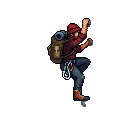
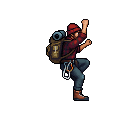
Wider camp ledge, front-facing A-frame tent, side-view campfire
The camp ledge is a new, much wider PixelLab Pro ledge; its image is cut
off where a slab of cliff starts at its back end, and the sign stands at
its far end. While the team is at a camp the camera eases over to centre
the whole ledge in the open part of the screen.

The tent is now a large A-frame seen from the front, door in the middle
(where the climbers turn in and come out), and the campfire is a
side-view teepee of logs with an animated flicker; the unlit pile is
the same logs with the flames taken out. The lumberjack's climb is
regenerated with bare hands, without the grey holds drawn in his fists.

diff --git a/js/scene.js b/js/scene.js
@@ -172,12 +172,17 @@ const ART={},FIRE_N=6;
   // (the ledge's walkable span: the columns whose top lies within a few pixels of the surface, where a tent can stand)
   load(asset("assets/ledge.png"),im=>{const p=pixels(im);ART.ledge=im;ART.ledgeTop=surface(p);
     const top=x=>{for(let y=0;y<p.h;y++)if(p.d[(y*p.w+x)*4+3]>40)return y;return p.h;};let a=0,b=p.w-1;
-    while(a<p.w&&top(a)>ART.ledgeTop+4)a++;while(b>a&&top(b)>ART.ledgeTop+4)b--;ART.ledgeWalk=[a,b];wintry(p.d);
+    // (the image's back end may carry a slab of cliff rising well above the ledge: it is cut off where that starts,
+    // so only the ledge itself is drawn, its back end against the real wall)
+    while(a<p.w&&top(a)>ART.ledgeTop+4)a++;let w=a;while(w<p.w&&top(w)>=ART.ledgeTop-6)w++;
+    b=w-1;while(b>a&&top(b)>ART.ledgeTop+4)b--;ART.ledgeWalk=[a,b];ART.ledgeW=w;wintry(p.d);
     const [c,g]=mk(p.w,p.h),id=g.createImageData(p.w,p.h);id.data.set(p.d);g.putImageData(id,0,0);ART.ledgeSnow=c;FX.camps={};});
   load(asset("assets/tent.png"),im=>{ART.tent=im;FX.camps={};FX.base=null;});
-  // the campfire's flicker loop; the unlit pile is the first frame's logs and stone ring (its lowest rows) alone
+  // the campfire's flicker loop; the unlit pile is its first frame with the flames (bright orange and yellow pixels)
+  // taken out, leaving the leaning logs and the stones
   ART.fire=Array.from({length:FIRE_N},(_,i)=>{const im=new Image();im.src=asset(`assets/fire/${i}.png`);
-    if(!i)im.onload=()=>{const b=boxOf(im),cut=b.y1-15,[c,g]=mk(im.width,im.height);g.drawImage(im,0,cut,im.width,im.height-cut,0,cut,im.width,im.height-cut);ART.firePile=c;};
+    if(!i)im.onload=()=>{const p=pixels(im),d=p.d;for(let j=0;j<d.length;j+=4)if(d[j]>200&&d[j+1]>90&&d[j]-d[j+2]>80)d[j+3]=0;
+      const [c,g]=mk(p.w,p.h),id=g.createImageData(p.w,p.h);id.data.set(d);g.putImageData(id,0,0);ART.firePile=c;};
     return im;});
   load(asset("assets/pine.png"),im=>{ART.pine=im;FX.base=null;});
   // the base-camp meadow: a grass-and-soil strip repeated along the valley floor, solid soil below it
@@ -548,29 +553,28 @@ function sign(text){const s=textSprite(text,C.cream,null),[c,g]=mk(s.width+6,s.h
 function drawTent(g,x,y){if(ART.tent)g.drawImage(ART.tent,x,y-boxOf(ART.tent).y1-1);else g.drawImage(sprites().tent,x,y-12);}
 // a camp shelf jutting from the cliff: the generated ledge (grassy for Camp I, snowy for Camp II) with its walkable
 // top at the camp's height and its right end over the rock, or until it loads a painted slab; a tent, sign and fire
-// left to right along the ledge: the tent at its outer end, the sign raised above it, the fire, then the climbers
-const CAMP_FIRE=-86;
+// the ledge as drawn: the image up to where its cliff slab starts, its back end at x=30 over the wall
+const ledgeW=()=>ART.ledge?ART.ledgeW||ART.ledge.width:0,ledgeL=()=>30-ledgeW();
 function campLayer(k,cy){if(FX.camps[k])return FX.camps[k];
   // (the buttress under the ledge, painted with the cliff, fills in between the ledge's back end and the wall)
-  const x0=-176,x1=30,y0=cy-96,y1=cy+80,[c,g]=mk(x1-x0,y1-y0),X=x=>x-x0,Y=y=>y-y0,snow=k==="c2";
-  // the ledge image's back end has a block of cliff rising above its top; only its rows from the top down are used
-  // there, so nothing stands up out of the ledge next to the wall
-  if(ART.ledge){const L=snow?ART.ledgeSnow:ART.ledge,dx=X(x1-L.width),dy=Y(cy-ART.ledgeTop),cut=150,top=ART.ledgeTop-2;
-    g.drawImage(L,0,0,cut,L.height,dx,dy,cut,L.height);g.drawImage(L,cut,top,L.width-cut,L.height-top,dx+cut,dy+top,L.width-cut,L.height-top);}
+  const x1=30,x0=Math.min(-176,ledgeL()-8),y0=cy-110,y1=cy+100,[c,g]=mk(x1-x0,y1-y0),X=x=>x-x0,Y=y=>y-y0,snow=k==="c2";
+  if(ART.ledge){const L=snow?ART.ledgeSnow:ART.ledge,W=ledgeW();g.drawImage(L,0,0,W,L.height,X(ledgeL()),Y(cy-ART.ledgeTop),W,L.height);}
   else for(let x=-170;x<x1;x++){const end=x<-160?(x+170)/10:1,th=R0((9+hash(x>>2,5)*4)*end);
     for(let y=0;y<=th;y++){let col=rockAt(x,cy+y+400);if(y===th)col=C.crack;else if(y>=th-1)col=C.rockD;
       if(y<=1)col=snow?(y?C.snowS:C.snow):(y?C.moss:C.mossL);if(y===2&&!snow&&hash(x,9)<.4)col=C.mossD;dot(g,X(x),Y(cy+y),col);}
     if(!snow&&hash(x,4)<.35)dot(g,X(x),Y(cy-1),hash(x,6)<.5?C.grassL:C.mossH);}
   // the ledge waits empty but for its sign: the team pitches its own camp when it gets here
-  const s=sign(k==="c1"?"CAMP I":"CAMP II");g.drawImage(s,X(-122)-(s.width>>1),Y(cy-80));
-  rect(g,X(-122),Y(cy-80)+s.height,1,80-s.height,C.woodD);
+  // (the sign stands at the ledge's far end, before where the tent will go)
+  const sx=ART.ledge&&ART.ledgeWalk?ledgeL()+ART.ledgeWalk[0]+6:-122,s=sign(k==="c1"?"CAMP I":"CAMP II");
+  g.drawImage(s,X(sx)-6,Y(cy-92));rect(g,X(sx),Y(cy-92)+s.height,1,92-s.height,C.woodD);
   return FX.camps[k]={c,x0,y0};}
 // where things go on a camp ledge, from the ledge's walkable span: the tent at the outer end, the fire beside it,
 // where each climber kneels to work (the leader at the tent, the partner at the fire) and the tent's door
 function campSpots(){const L=ART.ledge,T=ART.tent,F=ART.fire&&ART.fire[0];
-  const walk0=L&&ART.ledgeWalk?30-L.width+ART.ledgeWalk[0]:-140,tb=T?boxOf(T):{x0:0,x1:70,y1:50},tw=tb.x1-tb.x0;
-  const fb=F&&F.complete&&F.naturalWidth?boxOf(F):{x0:4,x1:34},fw=fb.x1-fb.x0,tentL=walk0+3,tentR=tentL+tw,fireL=tentR+8;
-  return {tentX:tentL-tb.x0,tentR,fireX:fireL-fb.x0,fireC:fireL+(fw>>1),meWork:tentR-14,mateWork:fireL+fw+10,door:tentL+R0(tw*.32)};}
+  const walk0=L&&ART.ledgeWalk?ledgeL()+ART.ledgeWalk[0]:-140,tb=T?boxOf(T):{x0:0,x1:70,y1:50},tw=tb.x1-tb.x0;
+  // (the tent faces out of the screen, so its door is in the middle; the sign's post takes the first few pixels)
+  const fb=F&&F.complete&&F.naturalWidth?boxOf(F):{x0:4,x1:34},fw=fb.x1-fb.x0,tentL=walk0+12,tentR=tentL+tw,fireL=tentR+14;
+  return {tentX:tentL-tb.x0,tentR,fireX:fireL-fb.x0,fireC:fireL+(fw>>1),meWork:tentR+12,mateWork:fireL+fw+14,door:tentL+(tw>>1)};}
 // the tent, risen from the ground up to fraction p (being pitched or packed away)
 function drawTentRise(g,x,y,p){if(p<=0)return;if(!ART.tent){if(p>=1)drawTent(g,x,y);return;}
   const T=ART.tent,b=boxOf(T),h=b.y1+1-b.y0,v=Math.max(1,R0(h*p)),sy=b.y1+1-v;g.drawImage(T,0,sy,T.width,v,x,y-v,T.width,v);}
@@ -652,7 +656,10 @@ function updateCam(dt){const me=FX.A.me,mt=FX.A.mate,now=performance.now();
   if(now-FX.areaAt>250||!FX.area){FX.area=sceneArea();FX.areaAt=now;}
   const A=FX.area,px=FX.px,ax=A.x/px,ay=A.y/px,aw=A.w/px,ah=A.h/px;
   // the cliff's edge sits a little left of the open area's middle so the valley shows beside it
-  FX.ox=R0(ax+aw*(FX.W>=900?.42:.38));
+  // (at a camp the view eases over to centre the wide ledge, from its far end to the wall, in the open part of the
+  // screen, so the tent and fire are never under the cards)
+  const oxT=FX.camp?ax+aw/2-(ledgeL()+30)/2:ax+aw*(FX.W>=900?.42:.38);
+  FX.oxF=FX.oxF==null?oxT:lerp(FX.oxF,oxT,1-Math.exp(-dt*2.5));FX.ox=R0(FX.oxF);
   let fy=FX.focus==="summit"?TOPY-30:lerp(me.N.y,mt.N.y,.3);
   // camera y is the world y at the open area's vertical middle; keep the summit sky and the meadow in frame
   let y=clamp(fy,TOPY-120+(ah/2),60-(ah/2));
